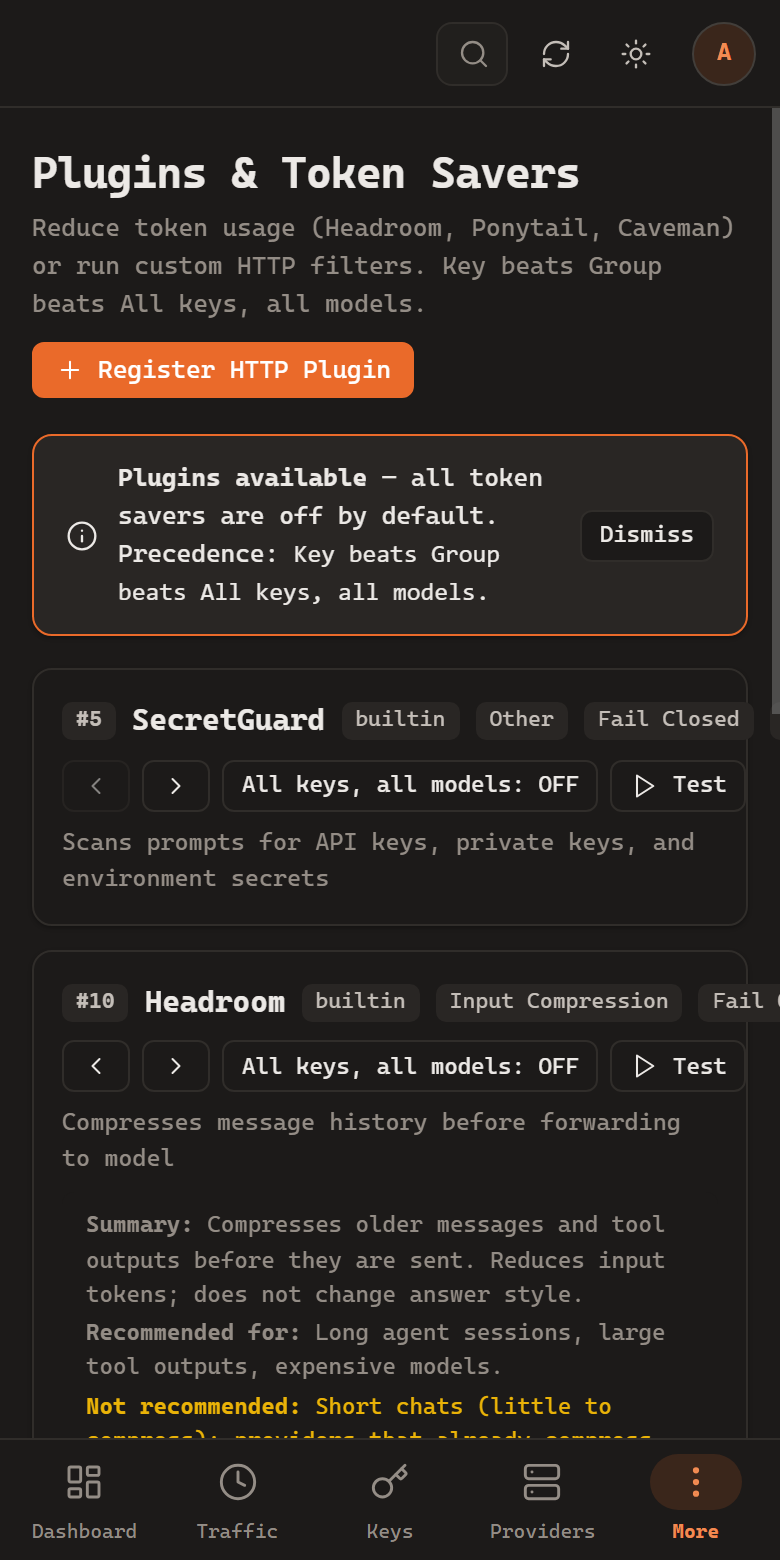
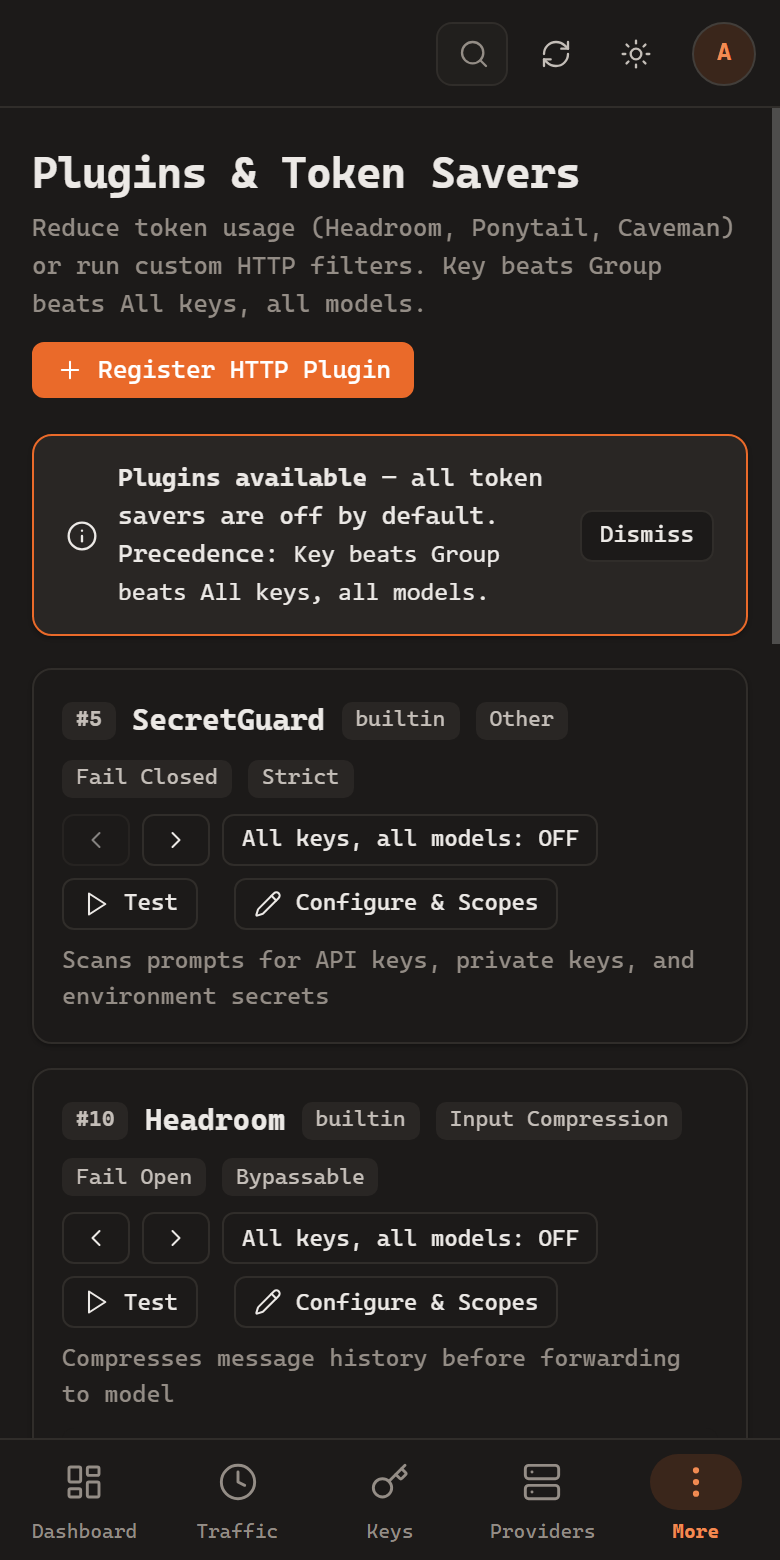
fix(ui): stop horizontal page overflow on phones (provider and plugin cards, toolbars, reports filter, log table)

diff --git a/web/static/js/views/providers.js b/web/static/js/views/providers.js
@@ -170,15 +170,15 @@ export function mount(root) {
         : null;
 
       return h('div', { class: 'card', style: { marginBottom: '12px' } },
-        h('div', { class: 'card-head', style: { display: 'flex', justifyContent: 'space-between', alignItems: 'center' } },
-          h('div', { style: { display: 'flex', alignItems: 'center', gap: '8px' } },
+        h('div', { class: 'card-head', style: { display: 'flex', justifyContent: 'space-between', alignItems: 'center', flexWrap: 'wrap', gap: '8px' } },
+          h('div', { style: { display: 'flex', alignItems: 'center', gap: '8px', flexWrap: 'wrap' } },
             icon('server'),
             h('h2', { style: { margin: 0, fontSize: '14px' } }, p.name),
             prefixTag,
             defaultTag,
             tokenSavingTag
           ),
-          h('div', { style: { display: 'flex', alignItems: 'center', gap: '8px' } },
+          h('div', { style: { display: 'flex', alignItems: 'center', gap: '8px', flexWrap: 'wrap' } },
             statusBadge,
             h('button', {
               class: 'btn btn-sm',
@@ -201,7 +201,7 @@ export function mount(root) {
             h('span', { class: 'muted', style: { fontSize: '11px', display: 'block', textTransform: 'uppercase' } }, 'Upstream API Key'),
             h('code', { class: 'muted' }, p.masked_key || '(None required)')
           ),
-          h('div', { style: { display: 'flex', alignItems: 'center', gap: '8px' } },
+          h('div', { style: { display: 'flex', alignItems: 'center', gap: '8px', flexWrap: 'wrap' } },
             testBtn
           )
         ),

diff --git a/web/static/js/views/plugins.js b/web/static/js/views/plugins.js
@@ -298,7 +298,7 @@ export function mount(root) {
 
       return h('div', { class: 'card', style: { padding: '14px' } },
         h('div', { style: { display: 'flex', alignItems: 'center', justifyContent: 'space-between', flexWrap: 'wrap', gap: '8px' } },
-          h('div', { style: { display: 'flex', alignItems: 'center', gap: '8px' } },
+          h('div', { style: { display: 'flex', alignItems: 'center', gap: '8px', flexWrap: 'wrap' } },
             h('span', { class: 'badge', style: { fontWeight: 'bold' } }, `#${p.pipeline_order}`),
             h('h3', { style: { margin: 0, fontSize: '15px' } }, p.name),
             h('span', { class: 'badge' }, p.kind),
@@ -306,7 +306,7 @@ export function mount(root) {
             policyBadge,
             bypassBadge
           ),
-          h('div', { style: { display: 'flex', alignItems: 'center', gap: '6px' } },
+          h('div', { style: { display: 'flex', alignItems: 'center', gap: '6px', flexWrap: 'wrap' } },
             moveUpBtn, moveDownBtn,
             toggleGlobBtn,
             testBtn, latencyLabel,

diff --git a/web/static/styles/main.css b/web/static/styles/main.css
@@ -1819,3 +1819,17 @@ input[type="date"]::-webkit-calendar-picker-indicator {
   .page-head .page-actions { margin-left: 0; }
 }
 .more-sheet section + section { margin-top: 12px; }
+
+/* ── Phones: let toolbars and segmented controls wrap or scroll instead of widening the page ── */
+@media (max-width: 860px) {
+  .chips { flex-wrap: wrap; max-width: 100%; }
+  .range { flex-wrap: wrap; max-width: 100%; }
+  .filter-group, .filter-group .segmented { max-width: 100%; }
+  .segmented { overflow-x: auto; scrollbar-width: none; }
+  .segmented::-webkit-scrollbar { display: none; }
+}
+@media (max-width: 860px) {
+  .log-table { overflow-x: auto; }
+  .log-table:not(.traffic-table) .log-head, .log-table:not(.traffic-table) .row { min-width: 420px; }
+  .toolbar .sep { display: none; }
+}
